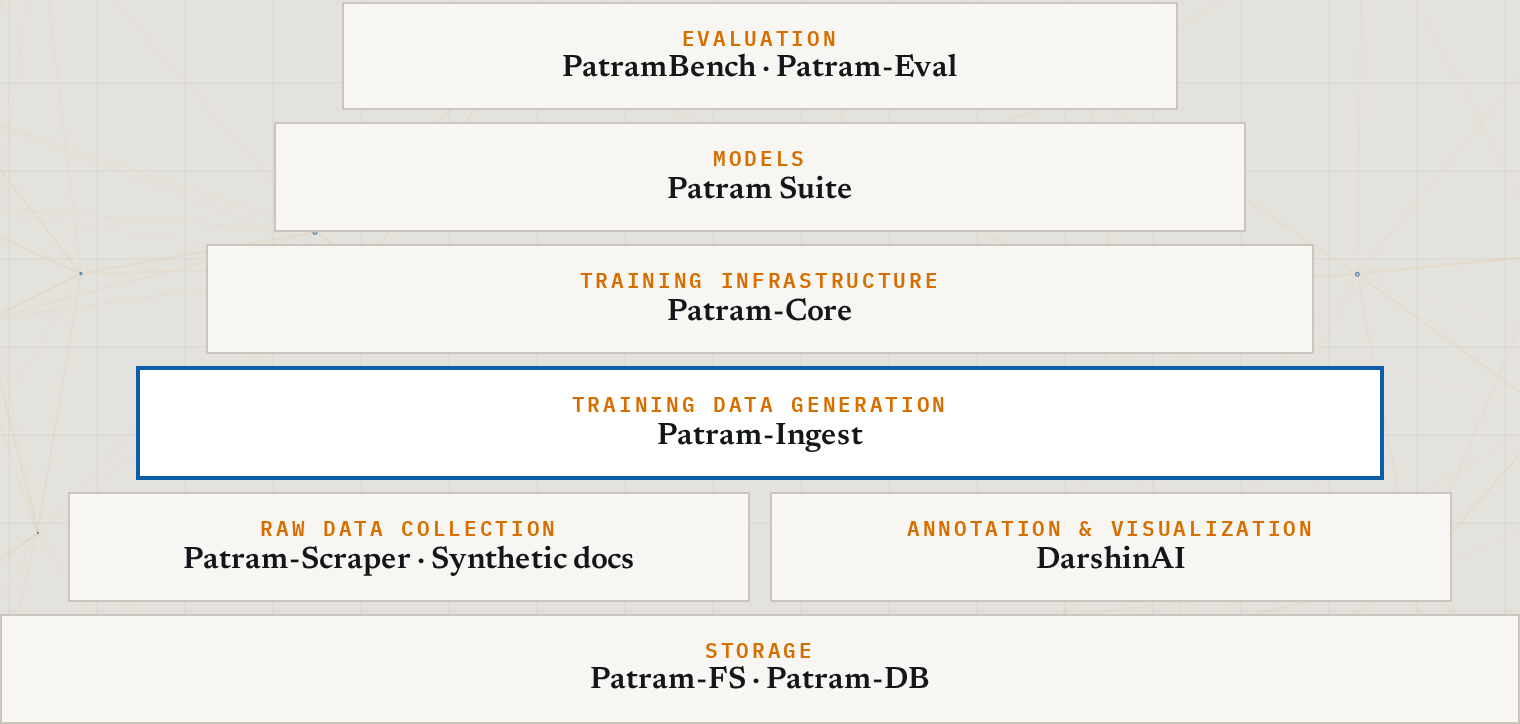
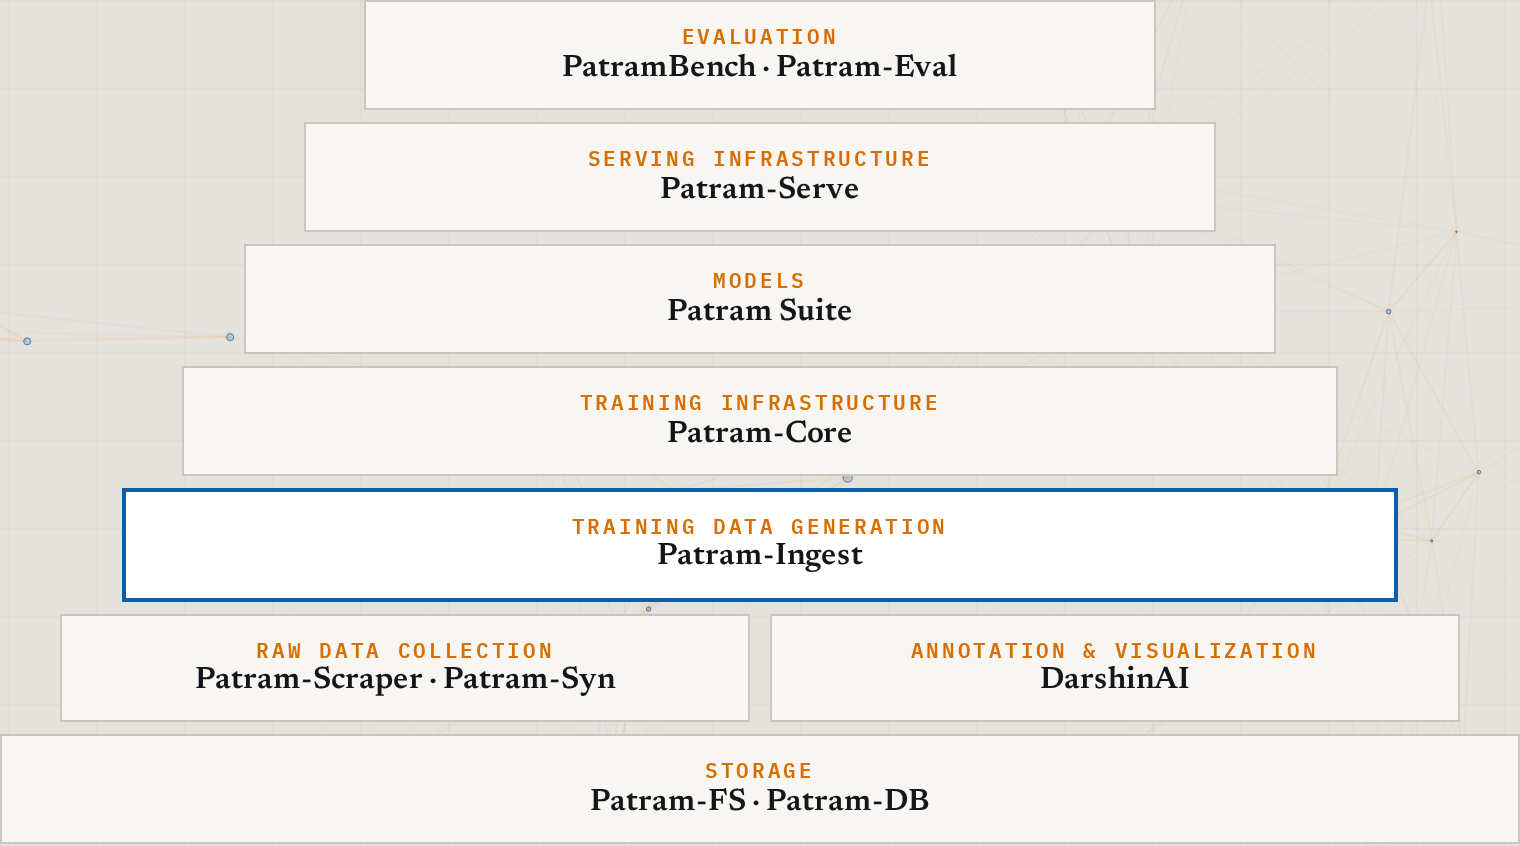
Profile README: refresh the Patram stack with Patram-Serve and Patram-Syn

Changed region(s): [[0.0, 0.0, 1.0, 0.9724], [0.1237, 0.395, 0.2474, 0.4558], [0.2783, 0.395, 0.3092, 0.4558]]

diff --git a/README.md b/README.md
@@ -66,7 +66,7 @@ flowchart LR
 *The whole stack that builds a sovereign vision foundation model, from storage to evaluation.*
 
 <p align="center">
-  <a href="https://srini-anirudh.github.io/research.html#vlm-infrastructure"><img src="assets/patram-stack.png" alt="The Patram stack, read from the bottom up: Storage (Patram-FS, Patram-DB); Raw data collection (Patram-Scraper, synthetic docs) and Annotation and visualisation (DarshinAI); Training data generation (Patram-Ingest); Training infrastructure (Patram-Core); Models (Patram suite); Evaluation (PatramBench, Patram-Eval)" width="760"/></a><br/>
+  <a href="https://srini-anirudh.github.io/research.html#vlm-infrastructure"><img src="assets/patram-stack.png" alt="The Patram stack, read from the bottom up: Storage (Patram-FS, Patram-DB); Raw data collection (Patram-Scraper, Patram-Syn) and Annotation and visualisation (DarshinAI); Training data generation (Patram-Ingest); Training infrastructure (Patram-Core); Models (Patram suite); Serving infrastructure (Patram-Serve); Evaluation (PatramBench, Patram-Eval)" width="760"/></a><br/>
   <sub>The Patram stack, read from the bottom up.</sub>
 </p>
 
